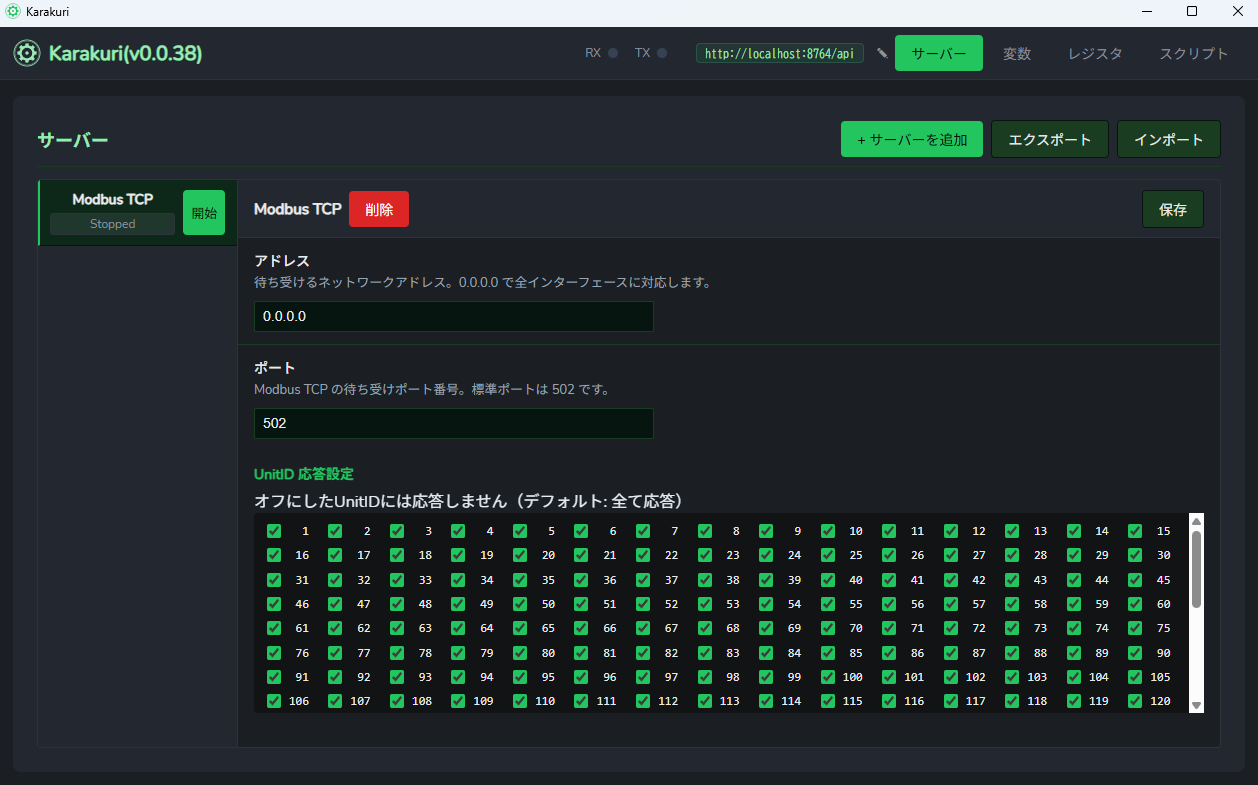
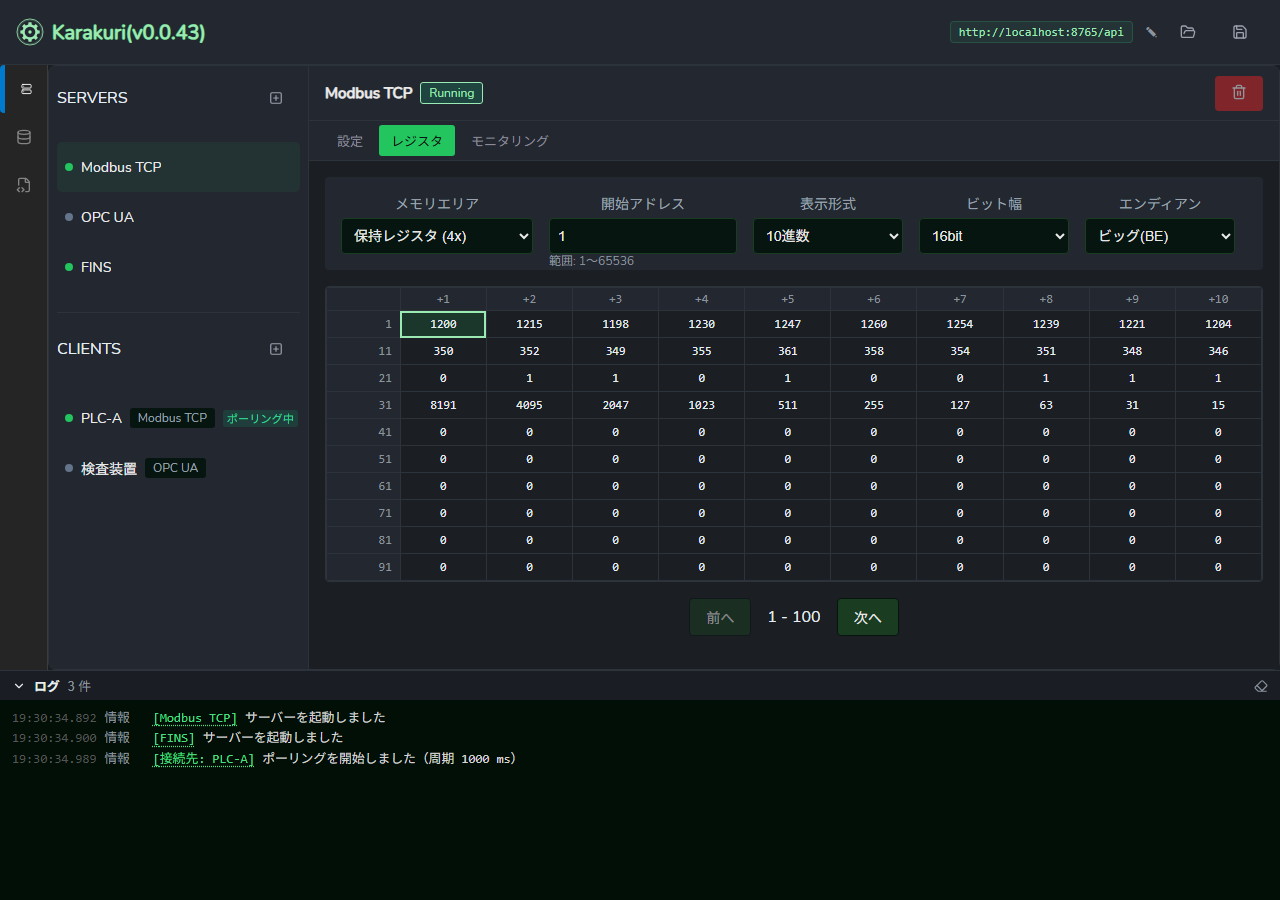
chore: バージョンを v0.0.43 にして、README のスクリーンショットを撮り直す
README のスクリーンショットは v0.0.38 のもので、サイドバー・サーバーのタブ・
クライアント・ログの欄ができる前の画面だった。

- APP_VERSION を v0.0.43 にする
- docs/screenshot.png を撮り直す（サーバー 3 つ・接続先 2 つ・レジスタの一覧・ログの欄）
- 撮り直すためのテスト（readme-screenshot.spec.ts）を足す。
  ふだんのテストでは実行されず、README_SCREENSHOT=1 を付けたときだけ撮る

Claude-Session: https://claude.ai/code/session_01GNuewoZhxEmS1YYMXoBamj

diff --git a/frontend/e2e/readme-screenshot.spec.ts b/frontend/e2e/readme-screenshot.spec.ts
@@ -1,0 +1,119 @@
+import { test, expect } from "@playwright/test";
+import path from "path";
+import {
+  api,
+  openApp,
+  openClient,
+  openRegisters,
+  resetApp,
+  selectClientTab,
+} from "./helpers";
+
+// README に載せるスクリーンショット（docs/screenshot.png）を撮り直す。
+//
+// ふだんのテストでは実行しない。撮り直すときだけ、環境変数 README_SCREENSHOT を付けて実行する:
+//
+//   $env:README_SCREENSHOT = '1'
+//   task e2e -- readme-screenshot
+//
+// アプリの状態を作り直すので、ほかのテストと同じく、作業に使っている開発サーバーには流さない。
+
+const OUTPUT = path.join("..", "docs", "screenshot.png");
+const MODBUS_PORT = 15020;
+const FINS_PORT = 19600;
+
+test.skip(
+  !process.env.README_SCREENSHOT,
+  "README のスクリーンショットを撮り直すときだけ実行する（README_SCREENSHOT=1）",
+);
+
+test("README のスクリーンショットを撮る", async ({ page }) => {
+  await page.setViewportSize({ width: 1280, height: 900 });
+  await openApp(page);
+  await resetApp(page);
+
+  // サーバー: Modbus TCP と FINS を起動し、OPC UA は止めたままにする
+  const configure = async (protocolType: string, settings: object) => {
+    await api(page, "AddServer", protocolType, "");
+    const cfg = await api<{ variant: string; settings: object }>(
+      page,
+      "GetServerConfig",
+      protocolType,
+    );
+    await api(page, "UpdateServerConfig", {
+      protocolType,
+      variant: cfg.variant,
+      settings: { ...cfg.settings, ...settings },
+    });
+  };
+  await configure("modbus-tcp", { tcpPort: MODBUS_PORT });
+  await configure("fins", { port: FINS_PORT });
+  await api(page, "AddServer", "opcua", "");
+
+  // レジスタに、それらしい値を入れる
+  const values = [
+    1200, 1215, 1198, 1230, 1247, 1260, 1254, 1239, 1221, 1204, 350, 352, 349,
+    355, 361, 358, 354, 351, 348, 346, 0, 1, 1, 0, 1, 0, 0, 1, 1, 1, 8191, 4095,
+    2047, 1023, 511, 255, 127, 63, 31, 15,
+  ];
+  for (let i = 0; i < values.length; i++) {
+    await api(
+      page,
+      "WriteWord",
+      "modbus-tcp",
+      "holdingRegisters",
+      i,
+      values[i],
+    );
+  }
+
+  // クライアント: 自分の Modbus TCP サーバーにつなぐ接続先
+  const client = await api<{ id: string }>(
+    page,
+    "AddClient",
+    "modbus-tcp",
+    "PLC-A",
+  );
+  await api(page, "UpdateClient", client.id, "PLC-A", {
+    host: "127.0.0.1",
+    port: MODBUS_PORT,
+    unitId: 1,
+    timeoutMs: 1000,
+  });
+  await api(page, "AddClient", "opcua", "検査装置");
+
+  // ログは、ここからの出来事だけにする
+  await api(page, "ClearAppLogs");
+  await api(page, "StartServer", "modbus-tcp");
+  await api(page, "StartServer", "fins");
+  await api(
+    page,
+    "AddClientPollItem",
+    client.id,
+    "3",
+    { address: 0, count: 10 },
+    "",
+  );
+  await api(page, "StartClientPolling", client.id);
+
+  // 接続先がつながって「ポーリング中」と出るのを待つ（一覧に状態を出すため、いったん接続先を開く）
+  await openClient(page, "PLC-A");
+  await selectClientTab(page, "ポーリング");
+  await expect(
+    page.locator(".client-tab-item", { hasText: "ポーリング中" }),
+  ).toBeVisible();
+
+  // Modbus TCP のレジスタを開き、ログの欄も開く
+  await openRegisters(page, "一覧表示", "Modbus TCP");
+  await expect(page.locator("td.matrix-cell").first()).toHaveText("1200");
+  await page.locator(".app-log-toggle").click();
+  await expect(page.locator(".app-log-entry")).not.toHaveCount(0);
+  // 選択の枠やホバーの色が写らないよう、マウスを何もないところに置く
+  await page.mouse.move(700, 620);
+  await page.waitForTimeout(400);
+
+  await page.screenshot({ path: OUTPUT });
+
+  await api(page, "StopClientPolling", client.id);
+  await resetApp(page);
+});

diff --git a/frontend/src/App.tsx b/frontend/src/App.tsx
@@ -12,7 +12,7 @@ import { ExportProject, ImportProject } from "../wailsjs/go/main/App";
 
 import { FolderOpen, Save } from "lucide-react";
 
-const APP_VERSION = "v0.0.42";
+const APP_VERSION = "v0.0.43";
 
 type Tab = "server" | "variables" | "scripts";
 

diff --git a/frontend/e2e/README.md b/frontend/e2e/README.md
@@ -47,6 +47,17 @@ task e2e
 - スクリーンショットは `e2e/.screenshots/`、失敗時の記録は `e2e/.results/` に出ます（どちらも git には入れません）。
 - 開発サーバーの URL を変える場合は、環境変数 `KARAKURI_DEV_URL` で指定します。
 
+### README のスクリーンショットを撮り直す
+
+`docs/screenshot.png`（README に載せているもの）は、`readme-screenshot.spec.ts` が撮る。ふだんのテストでは実行されない（スキップになる）。撮り直すときだけ、環境変数を付けて実行する。
+
+```powershell
+$env:README_SCREENSHOT = '1'
+task e2e -- readme-screenshot
+```
+
+画面に出るバージョン（`APP_VERSION`）が写るので、リリースのときは、バージョンを上げてから撮る。
+
 ## 注意
 
 - **テストはアプリの状態を消します。** 各テストの前後で、サーバー・変数・構造体型・モニタリング項目・スクリプトをすべて削除します（`resetApp()`）。作業中のプロジェクトを開いたアプリに対して実行しないでください。設定フォルダを差し替えていないアプリにつなぐと、本物の設定ファイル（モニタリング項目など）も書き換わります。

diff --git a/CLAUDE.md b/CLAUDE.md
@@ -86,6 +86,7 @@ go build ./...
 `.github/workflows/release.yml` が、`v` で始まるタグの push で Windows 用の exe をビルドし、GitHub のリリースを**下書き**で作る（`Karakuri_<バージョン>.zip` に `Karakuri.exe` と `LICENSE`）。
 
 1. `frontend/src/App.tsx` の `APP_VERSION` を新しいバージョンにして、main にマージする
+   - 画面が変わっていたら、README のスクリーンショット（`docs/screenshot.png`）も撮り直す。バージョンを上げてから `readme-screenshot.spec.ts` を実行する（手順は `frontend/e2e/README.md`）
 2. main でタグを打って push する: `git tag v0.0.39 && git push origin v0.0.39`
 3. Actions の実行が終わったら、GitHub のリリースの画面で下書きの内容と zip を確かめて、公開する
 
